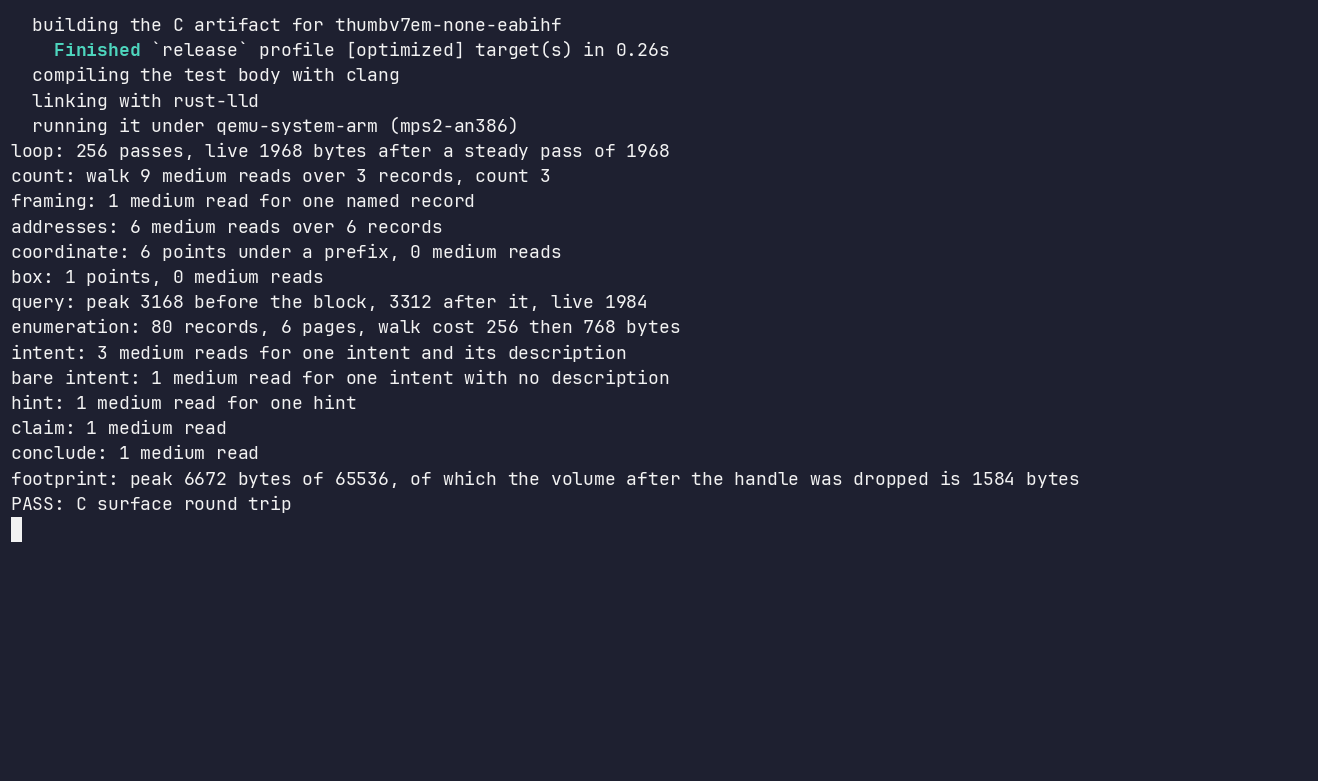
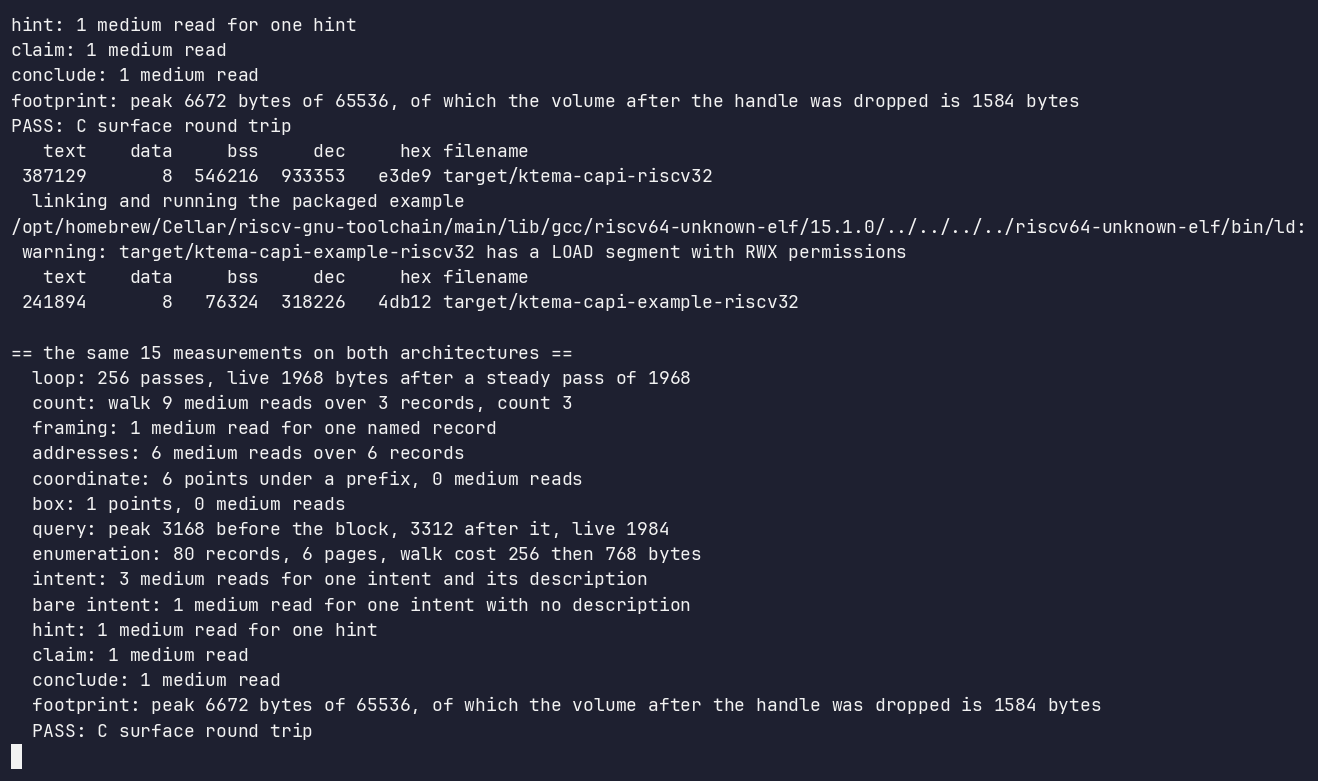
feat: the C proof runs the same body on both architectures

diff --git a/demo/src/data/artifacts.ts b/demo/src/data/artifacts.ts
@@ -76,12 +76,13 @@ const PROOFS: Recording[] = [
       'A terminal replaying the thirteen-step scenario: writes at two clocks, six window queries, a listing and a flush, ending on the digest 0x299bd5d0e1821fab.',
   },
   {
-    label: 'The C surface on a Cortex-M4',
-    detail: 'The test body linked from C, 6,672 bytes of a 65,536-byte arena at peak.',
-    href: 'https://asciinema.org/a/Xg7XgDqP27scB999',
+    label: 'One test body, two architectures',
+    detail:
+      'The same C test body linked from C and run under QEMU on a Cortex-M4 and a RISC-V core, with the same fifteen measurements on both.',
+    href: 'https://asciinema.org/a/qKmoAREJtuVC2hej',
     poster: '/proofs/capi-arm.png',
     posterAlt:
-      'A terminal replaying the Cortex-M4 check: the same C test body under QEMU, ending with PASS: C surface round trip.',
+      'A terminal replaying the C surface on a Cortex-M4 and on a RISC-V core: both report the same fifteen measurements, ending with PASS: C surface round trip.',
   },
   {
     label: 'Three refusals',
